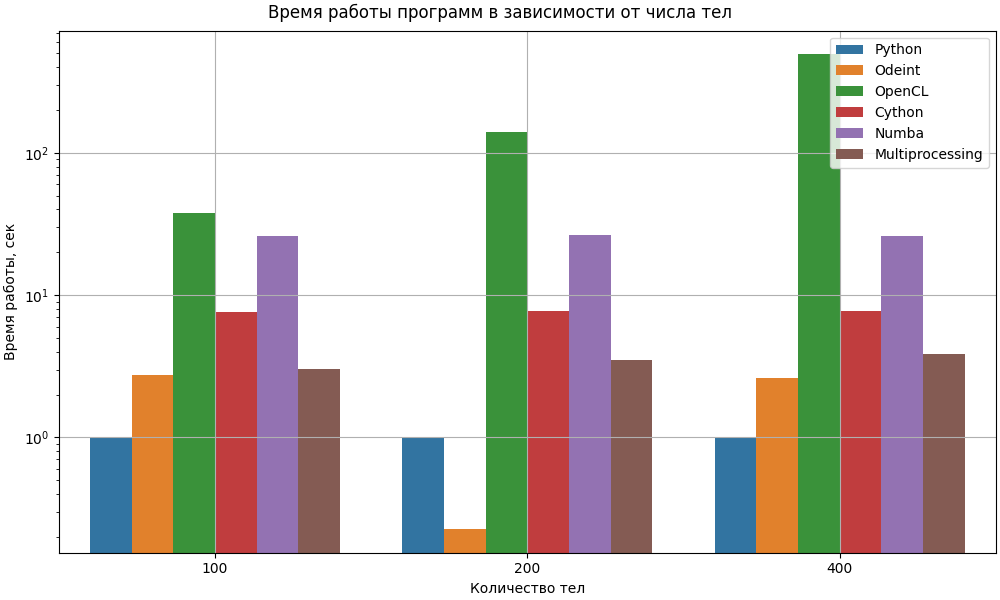
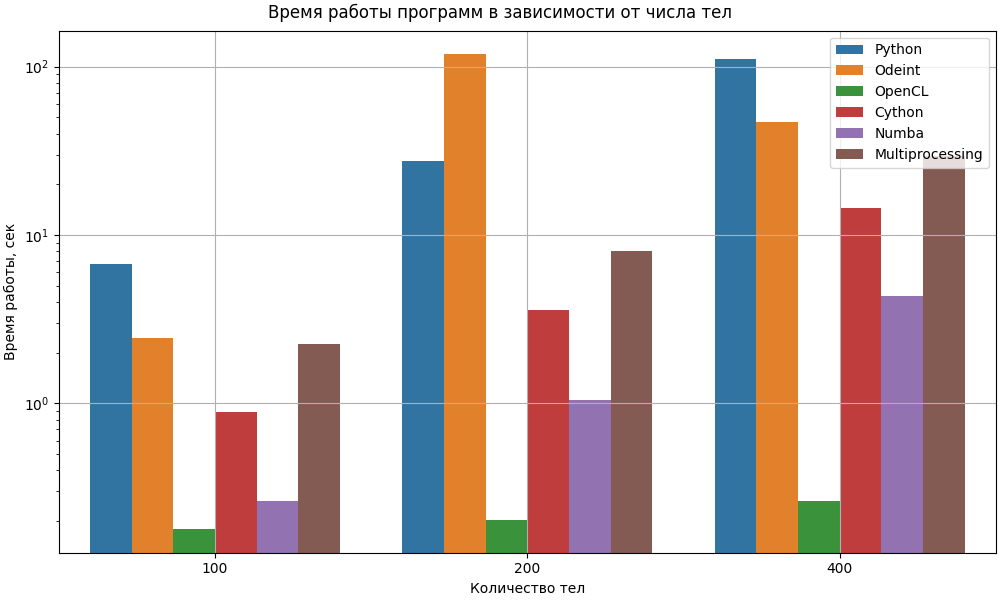
Fixed avg_time plot

diff --git a/homework2/speedtest.py b/homework2/speedtest.py
@@ -70,7 +70,7 @@ def test_solver(
 def plot_avg_time(data: pd.DataFrame) -> None:
     fig, ax = plt.subplots(constrained_layout=True, figsize=(10, 6))
     fig.suptitle("Время работы программ в зависимости от числа тел")
-    sns.barplot(data, x="n_objects", y="speedup", hue="name")
+    sns.barplot(data, x="n_objects", y="avg_time", hue="name")
     ax.set_ylabel("Время работы, сек")
     ax.set_xlabel("Количество тел")
     ax.set_yscale("log")
